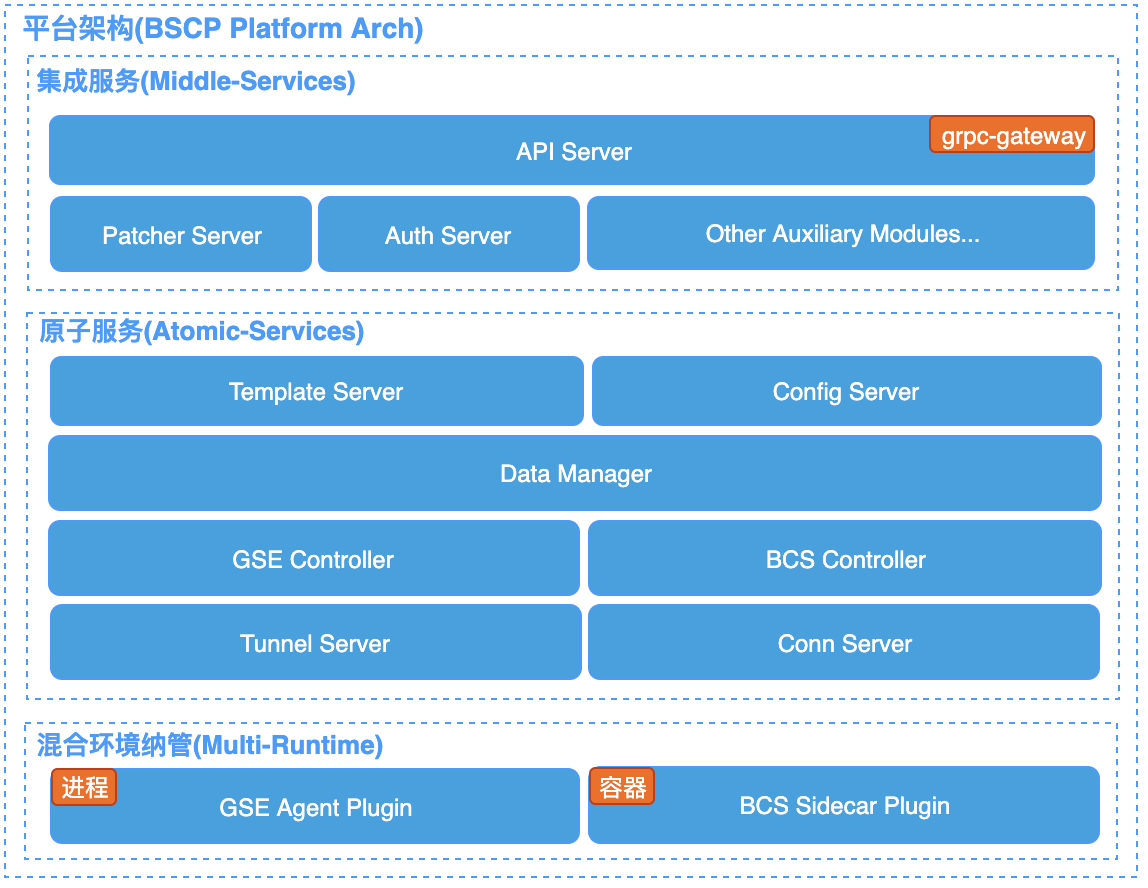
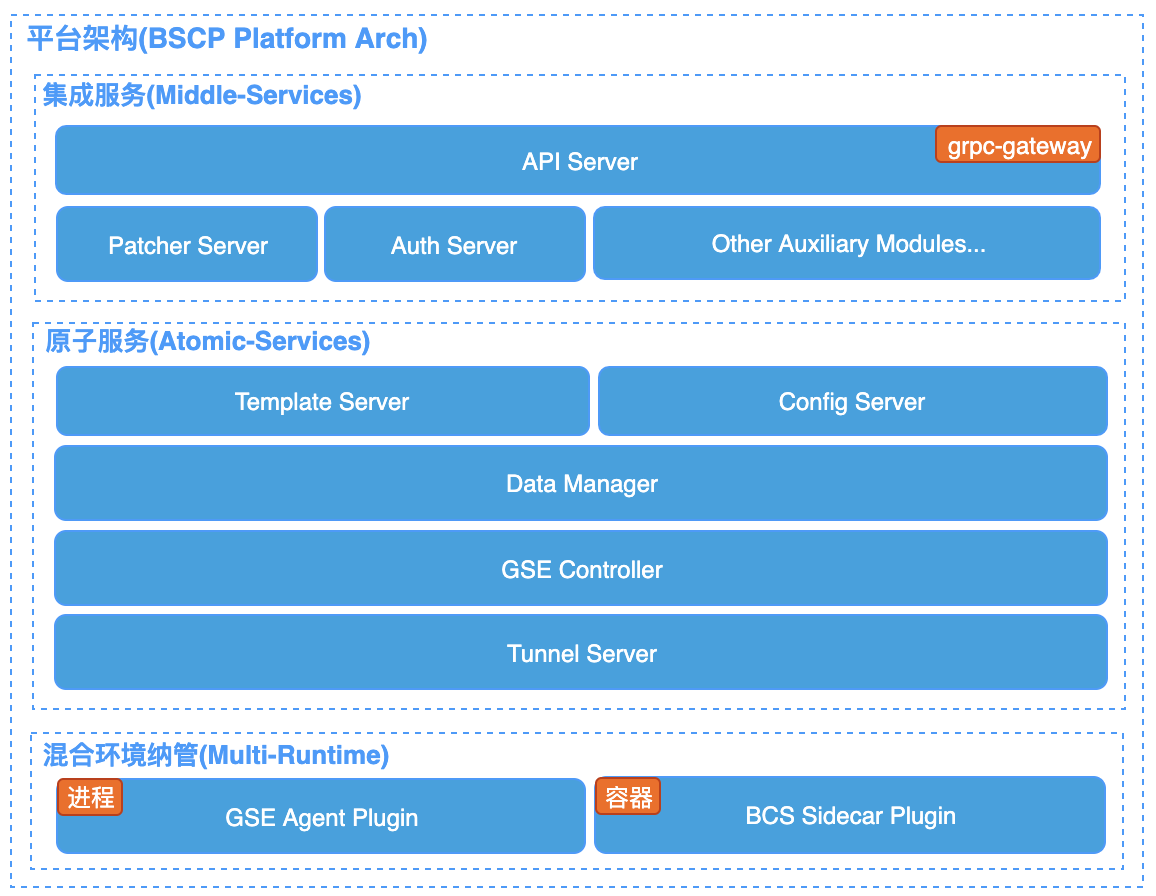
docs: update arch docs . issue #828

diff --git a/bmsf-configuration/docs/arch.md b/bmsf-configuration/docs/arch.md
@@ -11,8 +11,6 @@ BK-BSCP 平台架构设计
 
 ## 模块
 
-![avatar](./img/middle-arch.png)
-
 * APIServer: 接入服务，负责协议转换、URL路由、权限过滤、制品库服务代理；
 * AuthServer: 权限服务，负责完成内部权限审核;
 * Patcher: 升级补丁服务，负责升级补丁和定时数据修复任务;
@@ -30,14 +28,10 @@ BK-BSCP 平台架构设计
 
 ## 模块
 
-![avatar](./img/atomic-arch.png)
-
 * ConfigServer: 配置服务, 提供gRPC协议服务, 负责原子接口逻辑和较复杂的逻辑集成；
 * TemplateServer: 模板服务，负责配置模板的管理和内容渲染；
 * DataManager: 数据代理服务, 提供统一的缓存、DB分片存储能力;
-* BCS-Controller: BCS容器环境的控制器，负责策略控制和版本下发；
 * GSE-Controller: GSE侧的控制器，负责策略控制和版本下发；
-* ConnServer: BCS容器环境会话链接服务，与BCS-Sidecar配合维护下发通道;
 * TunnelServer: GSE侧通道服务，负责GSE通道的数据下行；
 * BCS-Sidecar: BCS容器环境sidecar，以sidecar模式运行，完成配置版本的拉取、生效和反馈上报；
 * GSE-plugin: GSE插件，与GSE Agent配合构建进程、容器混合环境下的配置通道;
@@ -47,10 +41,10 @@ BK-BSCP 平台架构设计
 * APIServer: 集群唯一入口，主要负责请求接入，做路由处理和流量代理，严禁过重逻辑;
 * Patcher: 内部补丁服务，包含升级包补丁和定时数据修正任务等，可直接操作BD, 无需基于DataManager接口进行逻辑处理（补丁的场景多为特殊场景，这种不便于下沉到DataManager中，DataManager只提供通用的接口, 便于内部模块复用）;
 * AuthServer: 由APIServer接入外部请求，是内部与外部权限系统的桥梁, 负责策略的创建修改和鉴权判断，负责权限相关资源数据的检索。AuthServer管理上属于集成服务层，但本质上属于中心化的权限处理模块，原子服务层可向上调用AuthServer;
-* BCS-Controller、GSE-Controller：负责通道的配置、版本策略控制；
-* DataManager: 只提供通用的可复用的原子接口;
 * ConfigServer、TemplateServer: 负责配置、模板等逻辑的处理，基于DataManager实现数据的读写;
-* ConnServer、TunnelServer: 负责通道的会话管理和信令管控;
+* DataManager: 只提供通用的可复用的原子接口;
+* GSE-Controller：负责通道的配置、版本策略控制；
+* TunnelServer: 负责通道的会话管理和信令管控;
 
 ## 数据流
 > 配置发布的主要逻辑, 其他复杂逻辑不做展示说明

diff --git a/bmsf-configuration/docs/fast_install.md b/bmsf-configuration/docs/fast_install.md
@@ -12,10 +12,6 @@ BK-BSCP 快速部署安装教程
 
 [参见官方安装教程] <https://etcd.io/docs/v3.4.0/op-guide/>
 
-## 3.安装NATS消息队列
-
-[参见官方安装教程] <https://docs.nats.io/nats-server/installation>
-
 ## 4.打包编译
 
 ### 4.1编译
@@ -75,9 +71,7 @@ drwxrwxr-x 4 dev dev 4096 7月  23 15:56 bk-bscp-authserver
 drwxrwxr-x 3 dev dev 4096 7月  23 15:56 bk-bscp-configserver
 drwxrwxr-x 4 dev dev 4096 7月  23 15:56 bk-bscp-templateserver
 drwxrwxr-x 3 dev dev 4096 7月  23 15:56 bk-bscp-datamanager
-drwxrwxr-x 3 dev dev 4096 7月  23 15:56 bk-bscp-bcs-controller
 drwxrwxr-x 3 dev dev 4096 7月  23 15:56 bk-bscp-gse-controller
-drwxrwxr-x 3 dev dev 4096 7月  23 15:56 bk-bscp-connserver
 drwxrwxr-x 3 dev dev 4096 7月  23 15:56 bk-bscp-tunnelserver
 drwxrwxr-x 3 dev dev 4096 7月  23 15:56 bk-bscp-patcher
 drwxrwxr-x 3 dev dev 4096 7月  23 15:56 install
@@ -86,16 +80,14 @@ drwxrwxr-x 3 dev dev 4096 7月  23 15:56 support-files
 
 模块列表:
 
-- bk-bscp-apiserver: 接入服务 (必须部署)
+- bk-bscp-apiserver: 接入服务
 - bk-bscp-authserver: 权限服务
-- bk-bscp-configserver: 配置服务 (必须部署)
-- bk-bscp-templateserver: 模板服务
-- bk-bscp-datamanager: 数据服务 (必须部署)
-- bk-bscp-bcs-controller: BCS通道控制器 (必须部署)
-- bk-bscp-connserver: BCS会话链接服务 (必须部署)
-- bk-bscp-gse-controller: GSE通道控制器 (必须部署)
-- bk-bscp-tunnelserver: GSE通道服务
 - bk-bscp-patcher: 升级补丁服务
+- bk-bscp-configserver: 配置服务
+- bk-bscp-templateserver: 模板服务
+- bk-bscp-datamanager: 数据服务
+- bk-bscp-gse-controller: GSE通道控制器
+- bk-bscp-tunnelserver: GSE通道服务
 
 ## 5.部署模块服务
 

diff --git a/bmsf-configuration/docs/install.md b/bmsf-configuration/docs/install.md
@@ -12,9 +12,7 @@ drwxrwxr-x 4 dev dev 4096 7月  23 15:56 bk-bscp-authserver
 drwxrwxr-x 3 dev dev 4096 7月  23 15:56 bk-bscp-configserver
 drwxrwxr-x 4 dev dev 4096 7月  23 15:56 bk-bscp-templateserver
 drwxrwxr-x 3 dev dev 4096 7月  23 15:56 bk-bscp-datamanager
-drwxrwxr-x 3 dev dev 4096 7月  23 15:56 bk-bscp-bcs-controller
 drwxrwxr-x 3 dev dev 4096 7月  23 15:56 bk-bscp-gse-controller
-drwxrwxr-x 3 dev dev 4096 7月  23 15:56 bk-bscp-connserver
 drwxrwxr-x 3 dev dev 4096 7月  23 15:56 bk-bscp-tunnelserver
 drwxrwxr-x 3 dev dev 4096 7月  23 15:56 bk-bscp-patcher
 drwxrwxr-x 3 dev dev 4096 7月  23 15:56 install
